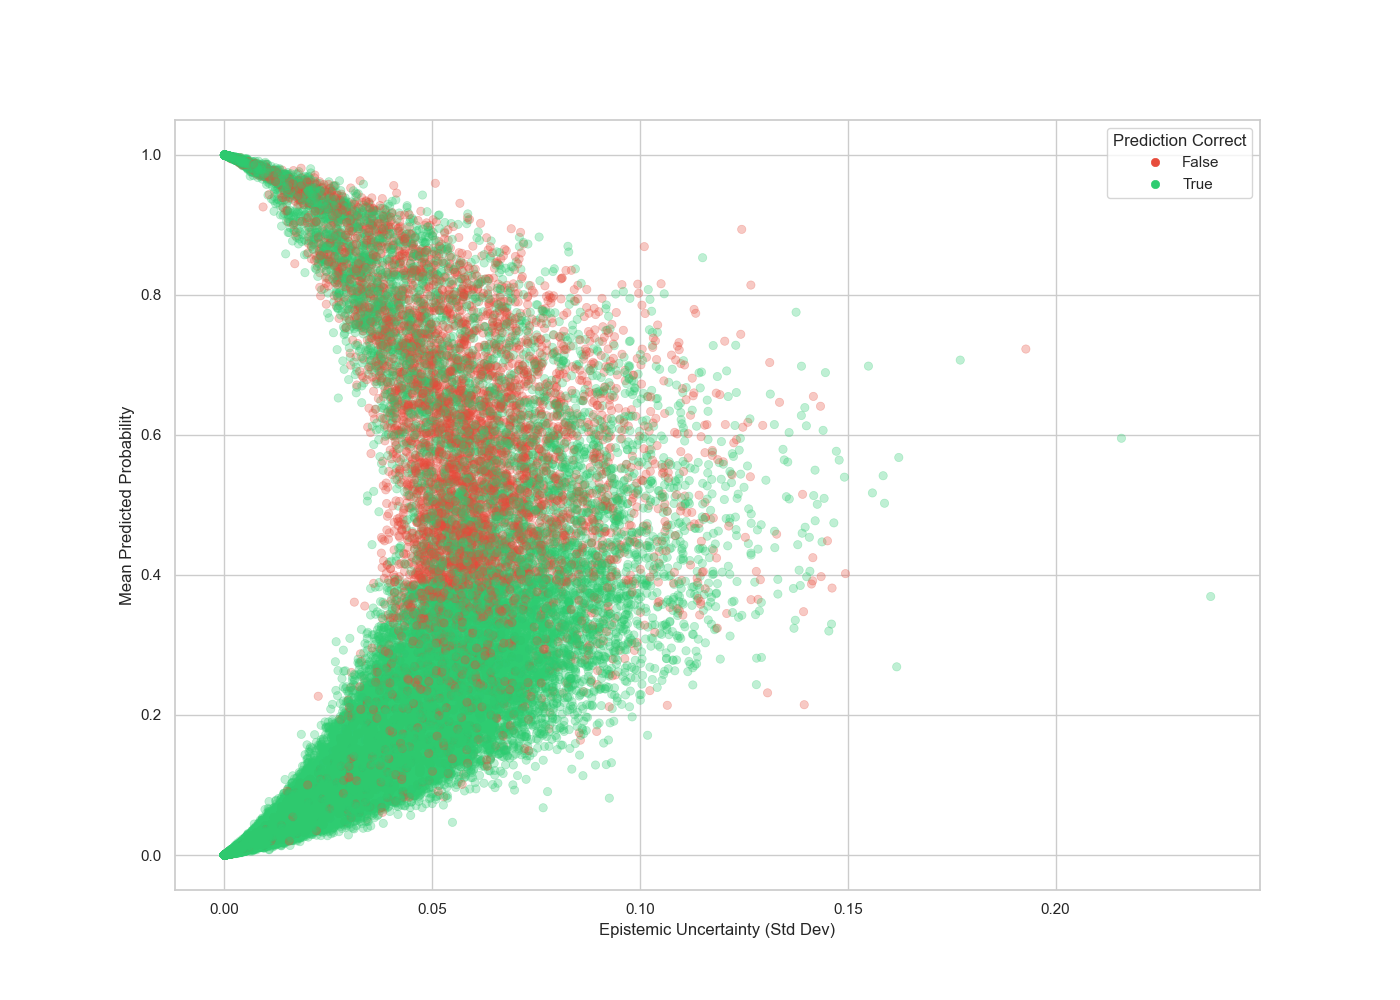
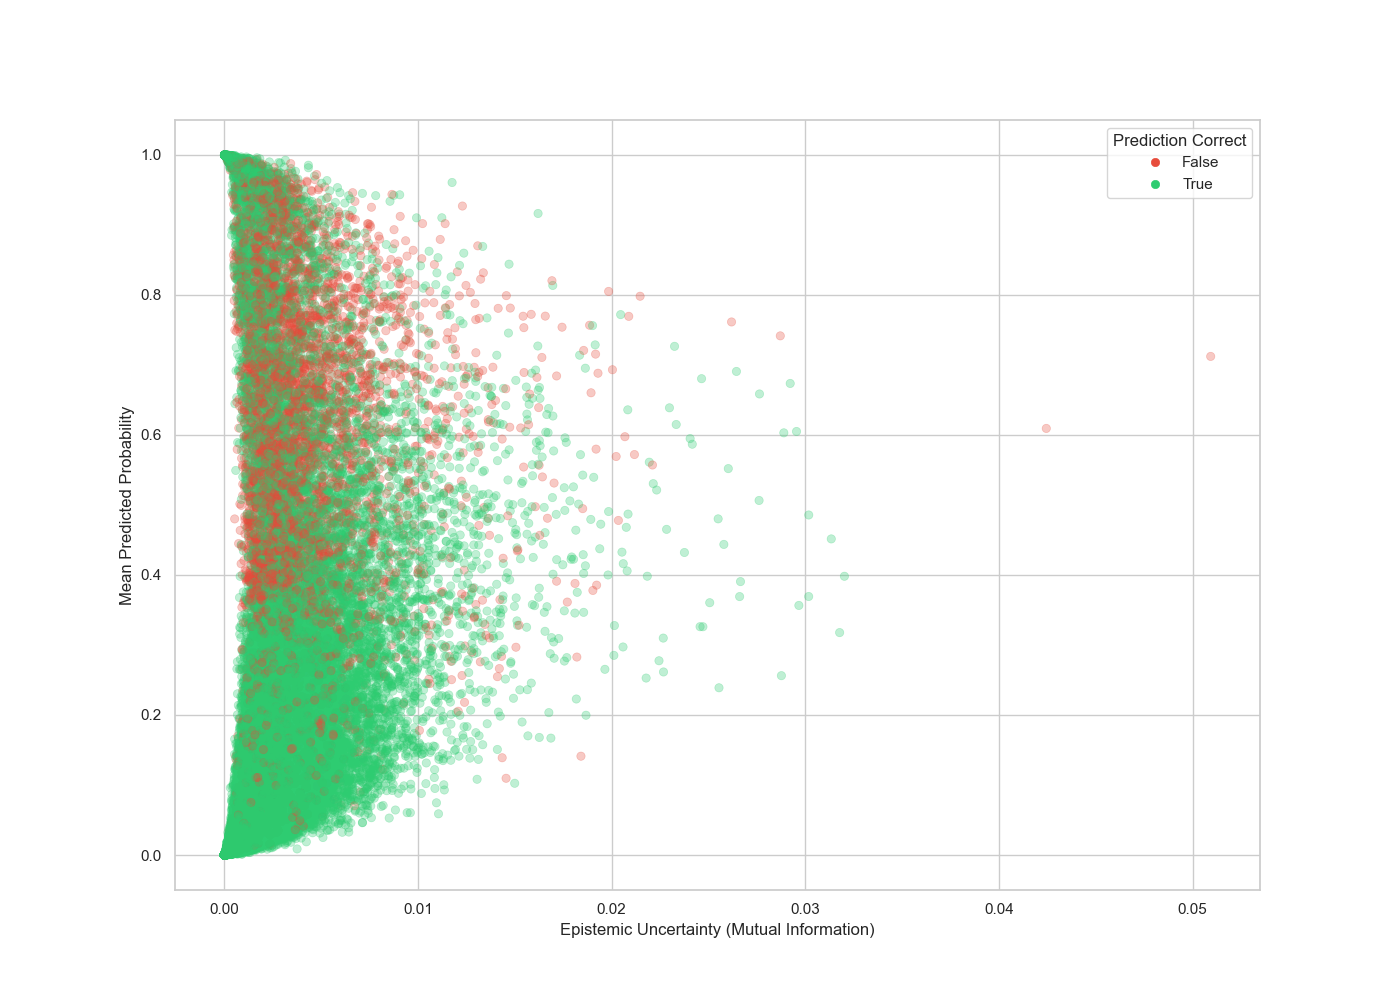
ADD v1.5 outputs

diff --git a/README.md b/README.md
@@ -1,5 +1,5 @@
 # EmCoder
-> **Probabilistic Emotion Recognition & Uncertainty Quantification**<br>**28 Emotion multi-label Transformer-based classifier trained with MC Dropout methodology**<br>**https://huggingface.co/yezdata/EmCoder**
+> **Probabilistic Emotion Recognition & Uncertainty Quantification**<br>**28 Emotion multi-label Transformer classifier**<br>**https://huggingface.co/yezdata/EmCoder**
 
 
 
@@ -13,7 +13,7 @@ EmCoder is optimized for **MC Dropout inference**.
 EmCoder achieves competitive F1-score with its compact size (~35% smaller than RoBERTa-base and ~45% smaller than ModernBERT), while providing per-class epistemic uncertainty quantification.
 | Model | Precision | Recall | F1-Score | Params |
 | :--- | :--- | :--- | :--- | :--- |
-| **EmCoder** | **0.464** | **0.478** | **0.447** | **82.1M** |
+| **EmCoder** | **0.469** | **0.486** | **0.463** | **82.1M** |
 | Google BERT (Original) | 0.400 | 0.630 | 0.460 | 110M |
 | RoBERTa-base | 0.575 | 0.396 | 0.450 | 125M |
 | ModernBERT-base | 0.583 | 0.535 | 0.550 | 149M |
@@ -39,12 +39,13 @@ To obtain probabilistic outputs and uncertainty metrics, use the `mc_forward` me
 ```python
 # Perform 50 stochastic passes
 N_SAMPLES = 50
+MAX_BATCH_SIZE = 10 # optional sub-batching of N_SAMPLES
 
 inputs = tokenizer("I am so happy you are here!", return_tensors="pt")
 
 model.eval()
-with torch.inference_mode():
-    mc_logits = model.mc_forward(inputs['input_ids'], inputs['attention_mask'], n_samples=N_SAMPLES) # Automatically keeps Dropout active, even when in model.eval
+with torch.no_grad():
+    mc_logits = model.mc_forward(inputs['input_ids'], inputs['attention_mask'], n_samples=N_SAMPLES, max_batch_size=MAX_BATCH_SIZE) # Automatically keeps Dropout active, even when in model.eval
 
 # Bayesian Post-processing
 all_probs = torch.sigmoid(mc_logits) # (n_samples, B, 28)
@@ -124,12 +125,7 @@ flowchart LR
 
 
 ### Optimization
-The model is trained using a Weighted Bayesian Binary Cross Entropy loss:
-
-$$
-\mathcal{L}_{Bayesian} = \frac{1}{T} \sum_{t=1}^{T} \text{BCEWithLogits}(z^{(t)}, y; w)
-$$
-
+The model is trained using a **Weighted Binary Cross Entropy loss**  
 Where weights $w$ are calculated using a logarithmic class-balancing scale to handle extreme label imbalance:
 
 $$
@@ -138,93 +134,63 @@ $$
 
 
 
+
 ## Performance on test set
-**Using `thresholds.json` optimization from val set (both probability and uncertainty thresholds) for binarizing predictions**
+**Using `thresholds.json` optimization of probabilty thresholds for binarizing predictions (from val set)**
 |                |   precision |   recall |   f1-score |   support |
 |:---------------|------------:|---------:|-----------:|----------:|
-| micro avg      |       0.476 |    0.611 |      0.535 |      6329 |
-| macro avg      |       0.464 |    0.478 |      0.447 |      6329 |
-| weighted avg   |       0.511 |    0.611 |      0.542 |      6329 |
-| samples avg    |       0.524 |    0.637 |      0.55  |      6329 |  
+| micro avg      |       0.482 |    0.627 |      0.545 |      6329 |
+| **macro avg**  |   **0.469** |**0.486** |  **0.463** |      6329 |
+| weighted avg   |       0.508 |    0.627 |      0.550 |      6329 |
+| samples avg    |       0.532 |    0.651 |      0.560 |      6329 |
 |----------------|-------------|----------|------------|-----------|
-| admiration     |       0.635 |    0.565 |      0.598 |       504 |
-| amusement      |       0.713 |    0.894 |      0.793 |       264 |
-| anger          |       0.367 |    0.525 |      0.432 |       198 |
-| annoyance      |       0.215 |    0.406 |      0.281 |       320 |
-| approval       |       0.226 |    0.396 |      0.288 |       351 |
-| caring         |       0.199 |    0.304 |      0.24  |       135 |
-| confusion      |       0.268 |    0.412 |      0.325 |       153 |
-| curiosity      |       0.423 |    0.704 |      0.528 |       284 |
-| desire         |       0.585 |    0.373 |      0.456 |        83 |
-| disappointment |       0.176 |    0.146 |      0.159 |       151 |
-| disapproval    |       0.222 |    0.506 |      0.309 |       267 |
-| disgust        |       0.56  |    0.382 |      0.454 |       123 |
-| embarrassment  |       0.423 |    0.297 |      0.349 |        37 |
-| excitement     |       0.423 |    0.398 |      0.41  |       103 |
-| fear           |       0.538 |    0.641 |      0.585 |        78 |
-| gratitude      |       0.943 |    0.886 |      0.914 |       352 |
-| grief          |       0.111 |    0.333 |      0.167 |         6 |
-| joy            |       0.503 |    0.602 |      0.548 |       161 |
-| love           |       0.75  |    0.832 |      0.789 |       238 |
-| nervousness    |       0.429 |    0.13  |      0.2   |        23 |
-| optimism       |       0.681 |    0.505 |      0.58  |       186 |
-| pride          |       0.75  |    0.375 |      0.5   |        16 |
-| realization    |       0.4   |    0.097 |      0.156 |       145 |
-| relief         |       0.2   |    0.182 |      0.19  |        11 |
-| remorse        |       0.527 |    0.857 |      0.653 |        56 |
-| sadness        |       0.624 |    0.372 |      0.466 |       156 |
-| surprise       |       0.534 |    0.447 |      0.486 |       141 |
-| neutral        |       0.567 |    0.804 |      0.665 |      1787 |
+| admiration     |       0.613 |    0.607 |      0.610 |       504 |
+| amusement      |       0.724 |    0.886 |      0.797 |       264 |
+| anger          |       0.384 |    0.535 |      0.447 |       198 |
+| annoyance      |       0.230 |    0.431 |      0.300 |       320 |
+| approval       |       0.229 |    0.436 |      0.300 |       351 |
+| caring         |       0.262 |    0.281 |      0.271 |       135 |
+| confusion      |       0.395 |    0.320 |      0.354 |       153 |
+| curiosity      |       0.441 |    0.736 |      0.551 |       284 |
+| desire         |       0.538 |    0.422 |      0.473 |        83 |
+| disappointment |       0.221 |    0.152 |      0.180 |       151 |
+| disapproval    |       0.242 |    0.536 |      0.333 |       267 |
+| disgust        |       0.595 |    0.407 |      0.483 |       123 |
+| embarrassment  |       0.556 |    0.405 |      0.469 |        37 |
+| excitement     |       0.375 |    0.379 |      0.377 |       103 |
+| fear           |       0.575 |    0.538 |      0.556 |        78 |
+| gratitude      |       0.948 |    0.886 |      0.916 |       352 |
+| grief          |       0.200 |    0.167 |      0.182 |         6 |
+| joy            |       0.566 |    0.559 |      0.562 |       161 |
+| love           |       0.762 |    0.861 |      0.809 |       238 |
+| nervousness    |       0.333 |    0.174 |      0.229 |        23 |
+| optimism       |       0.632 |    0.516 |      0.568 |       186 |
+| pride          |       0.750 |    0.375 |      0.500 |        16 |
+| realization    |       0.250 |    0.159 |      0.194 |       145 |
+| relief         |       0.286 |    0.182 |      0.222 |        11 |
+| remorse        |       0.547 |    0.839 |      0.662 |        56 |
+| sadness        |       0.432 |    0.513 |      0.469 |       156 |
+| surprise       |       0.483 |    0.504 |      0.493 |       141 |
+| neutral        |       0.555 |    0.811 |      0.659 |      1787 |
 
 
-**Using default threshold of 0.5 for binarizing predictions**
-|                |   precision |   recall |   f1-score |   support |
-|:---------------|------------:|---------:|-----------:|----------:|
-| micro avg      |       0.494 |    0.596 |      0.54  |      6329 |
-| macro avg      |       0.408 |    0.495 |      0.44  |      6329 |
-| weighted avg   |       0.492 |    0.596 |      0.535 |      6329 |
-| samples avg    |       0.525 |    0.616 |      0.544 |      6329 |
-|----------------|-------------|----------|------------|-----------|
-| admiration     |       0.541 |    0.673 |      0.599 |       504 |
-| amusement      |       0.688 |    0.909 |      0.783 |       264 |
-| anger          |       0.419 |    0.47  |      0.443 |       198 |
-| annoyance      |       0.31  |    0.25  |      0.277 |       320 |
-| approval       |       0.304 |    0.271 |      0.287 |       351 |
-| caring         |       0.229 |    0.281 |      0.252 |       135 |
-| confusion      |       0.26  |    0.497 |      0.342 |       153 |
-| curiosity      |       0.432 |    0.764 |      0.552 |       284 |
-| desire         |       0.453 |    0.518 |      0.483 |        83 |
-| disappointment |       0.176 |    0.152 |      0.163 |       151 |
-| disapproval    |       0.279 |    0.404 |      0.33  |       267 |
-| disgust        |       0.447 |    0.545 |      0.491 |       123 |
-| embarrassment  |       0.325 |    0.351 |      0.338 |        37 |
-| excitement     |       0.288 |    0.427 |      0.344 |       103 |
-| fear           |       0.47  |    0.692 |      0.56  |        78 |
-| gratitude      |       0.834 |    0.943 |      0.885 |       352 |
-| grief          |       0     |    0     |      0     |         6 |
-| joy            |       0.445 |    0.652 |      0.529 |       161 |
-| love           |       0.724 |    0.895 |      0.801 |       238 |
-| nervousness    |       0.24  |    0.261 |      0.25  |        23 |
-| optimism       |       0.483 |    0.543 |      0.511 |       186 |
-| pride          |       0.667 |    0.375 |      0.48  |        16 |
-| realization    |       0.226 |    0.166 |      0.191 |       145 |
-| relief         |       0.222 |    0.182 |      0.2   |        11 |
-| remorse        |       0.516 |    0.857 |      0.644 |        56 |
-| sadness        |       0.405 |    0.545 |      0.464 |       156 |
-| surprise       |       0.429 |    0.539 |      0.478 |       141 |
-| neutral        |       0.602 |    0.695 |      0.645 |      1787 |  
-
-
-
+### Entropy-based uncertainty quantification
 
 <br>**Model uncertainty quantification on GoEmotions test set**  
-The distribution demonstrates strong calibration, as the highest error density correlates with increased epistemic uncertainty. While most high-probability predictions are correct, a small fragment of overconfident incorrects remains likely due to dataset bias or linguistic nuances like sarcasm. These outliers identify a clear opportunity for further refinement using **temperature scaling**.
-![epistemic_unc](outputs/epistemic_unc_scatter.png)
+| Mean probability vs Epistemic | Mean probability vs Aleatoric |
+| :---: | :---: |
+| ![Epistemic Scatter](outputs/epistemic_unc_scatter.png) | ![Aleatoric Scatter](outputs/aleatoric_unc_scatter.png) |
 
 
-**Confusion matrix**
-![multi_label_confusion_matrix](outputs/confusion_matrix.png)
+<br>**Demonstration of model uncertainty utilization**  
+Compute F1 score while removing the most uncertain (epistemic) x % of positive and negative classified test samples
+![F1 Rejection curve](outputs/f1_rejection_epistemic.png)
 
+
+<br>**Emotion uncertainty distribution**  
+| Epistemic | Aleatoric |
+| :---: | :---: |
+| ![Epistemic Ridge](outputs/ridge_epistemic.png) | ![Aleatoric Ridge](outputs/ridge_aleatoric.png) |
 
 
 ## Workflow
